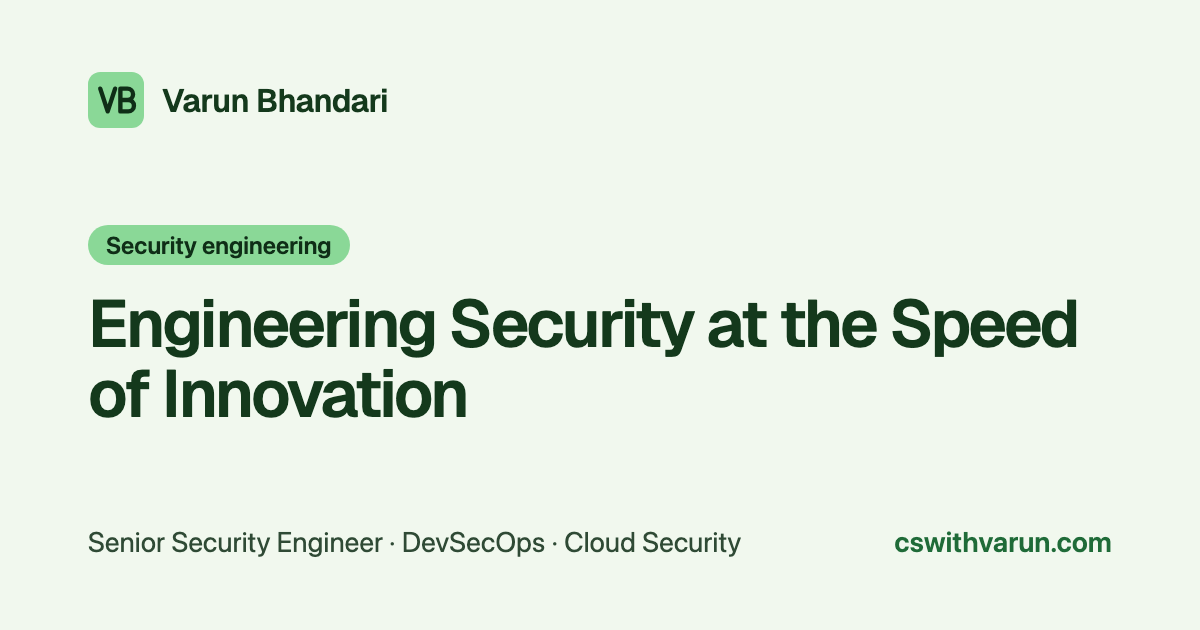
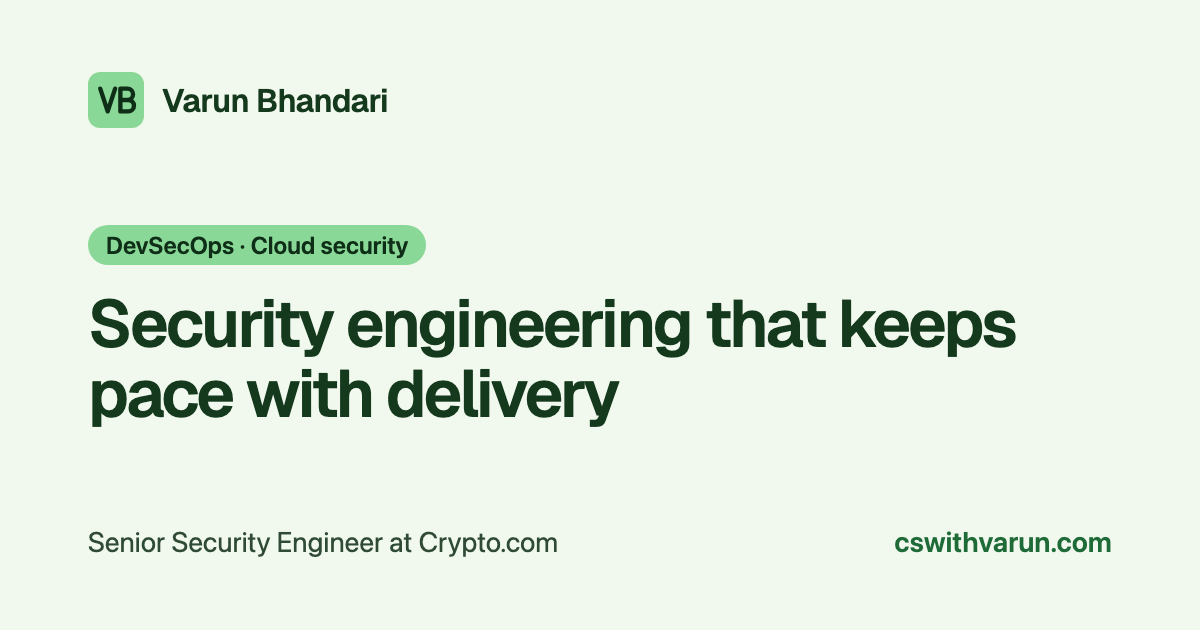
Use "Varun Bhandari" as the site name
Browser tabs, search results, link previews, the feed and the footer now match the
logo and nav. The default share image shows the new hero headline.

Changed region(s): [[0.0617, 0.4524, 0.925, 0.6937], [0.0925, 0.3317, 0.37, 0.4222], [0.3083, 0.8444, 0.6167, 0.8746]]

diff --git a/_includes/footer.html b/_includes/footer.html
@@ -2,7 +2,7 @@
     <div class="container">
         <div class="footer-content">
             <div class="footer-section">
-                <h2 class="footer-heading">CS with Varun</h2>
+                <h2 class="footer-heading">Varun Bhandari</h2>
                 <p>Simplifying Computer Science, Security &amp; DevOps.</p>
                 <div class="social-links">
                     <a href="https://github.com/{{ site.github_username }}" target="_blank" rel="noopener noreferrer"
